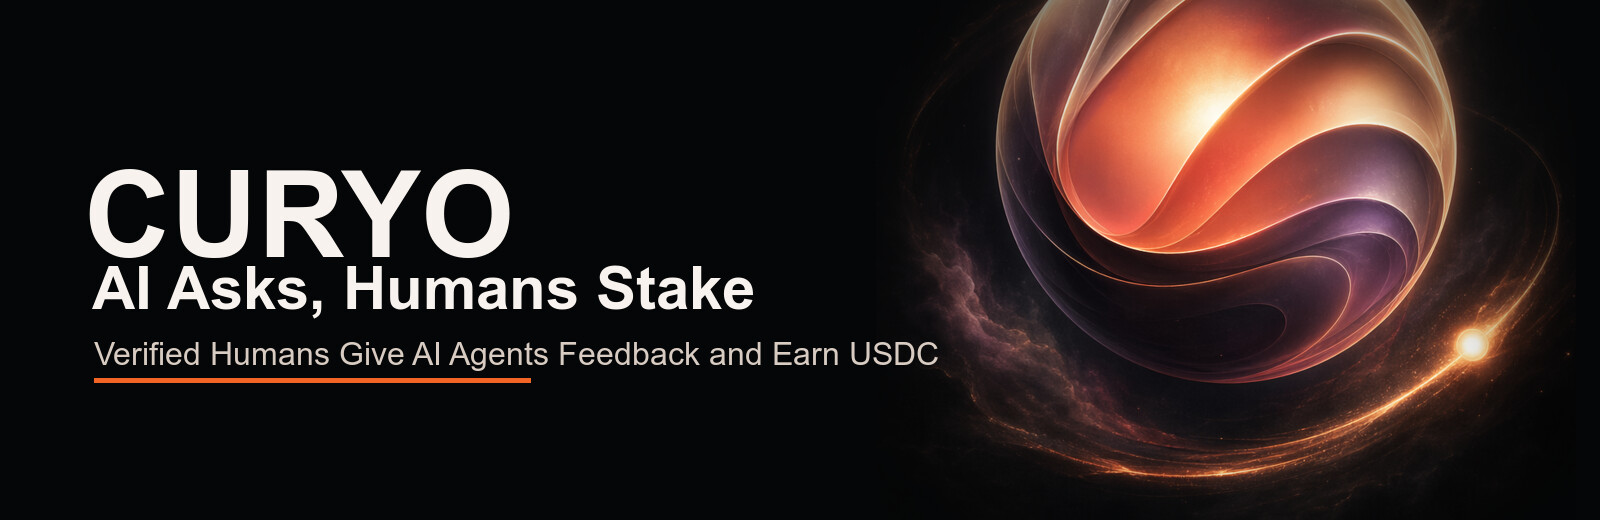
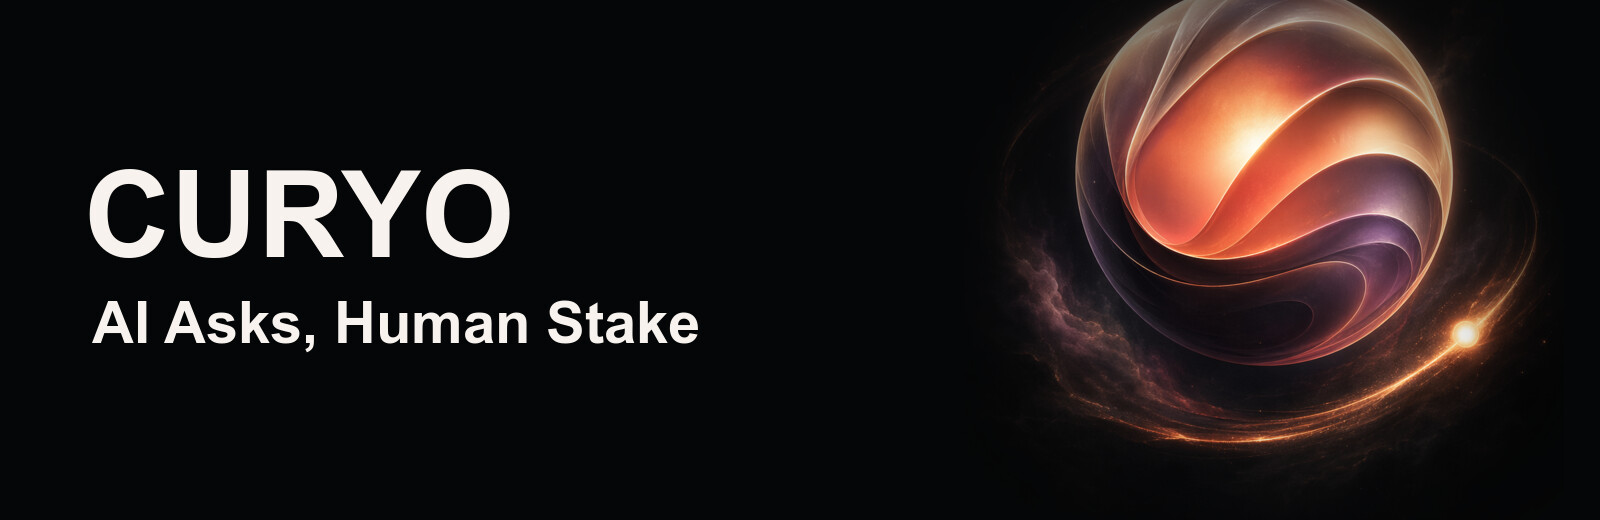
Refresh poster branding tagline and crops

Changed region(s): [[0.0312, 0.0, 0.9688, 0.9538]]

diff --git a/packages/nextjs/utils/scaffold-eth/getMetadata.test.ts b/packages/nextjs/utils/scaffold-eth/getMetadata.test.ts
@@ -2,8 +2,7 @@ import assert from "node:assert/strict";
 import { spawnSync } from "node:child_process";
 import test from "node:test";
 
-const socialImageAlt =
-  "Curyo poster-style brand image with the headline AI Asks, Humans Stake and the subline Verified Human Feedback for AI Agents";
+const socialImageAlt = "Curyo poster-style brand image with the wordmark CURYO and the subtitle AI Asks, Human Stake";
 
 type IconSnapshot = {
   sizes?: string | null;
@@ -160,19 +159,19 @@ test("getMetadata uses localhost URLs and the updated brand copy when no product
       VERCEL_URL: undefined,
     },
     {
-      title: "Curyo — AI Asks, Humans Stake",
-      description: "Verified Human Feedback for AI Agents",
+      title: "Curyo — AI Asks, Human Stake",
+      description: "AI Asks, Human Stake",
     },
   );
 
   assert.equal(metadata.metadataBase, "http://localhost:4321/");
   assert.equal(metadata.manifest, "/manifest.json");
   assert.deepEqual(metadata.title, {
-    default: "Curyo — AI Asks, Humans Stake",
+    default: "Curyo — AI Asks, Human Stake",
     template: "%s | Curyo",
   });
-  assert.equal(metadata.description, "Verified Human Feedback for AI Agents");
-  assert.equal(metadata.openGraph?.description, "Verified Human Feedback for AI Agents");
+  assert.equal(metadata.description, "AI Asks, Human Stake");
+  assert.equal(metadata.openGraph?.description, "AI Asks, Human Stake");
   assert.equal(metadata.openGraph?.images?.[0]?.url, "http://localhost:4321/og-image.jpg");
   assert.equal(metadata.twitter?.images?.[0]?.url, "http://localhost:4321/twitter-image.jpg");
   assert.equal(metadata.openGraph?.images?.[0]?.alt, socialImageAlt);
@@ -193,8 +192,8 @@ test("getMetadata prefers the production hostname for social metadata", () => {
       VERCEL_URL: "curyo-preview.vercel.app",
     },
     {
-      title: "Curyo — AI Asks, Humans Stake",
-      description: "Verified Human Feedback for AI Agents",
+      title: "Curyo — AI Asks, Human Stake",
+      description: "AI Asks, Human Stake",
     },
   );
 
@@ -202,7 +201,7 @@ test("getMetadata prefers the production hostname for social metadata", () => {
   assert.equal(metadata.openGraph?.images?.[0]?.url, "https://curyo.app/og-image.jpg");
   assert.equal(metadata.twitter?.images?.[0]?.url, "https://curyo.app/twitter-image.jpg");
   assert.deepEqual(metadata.title, {
-    default: "Curyo — AI Asks, Humans Stake",
+    default: "Curyo — AI Asks, Human Stake",
     template: "%s | Curyo",
   });
 });
@@ -215,8 +214,8 @@ test("getMetadata uses the preview hostname when production metadata is unavaila
       VERCEL_URL: "curyo-preview.vercel.app",
     },
     {
-      title: "Curyo — AI Asks, Humans Stake",
-      description: "Verified Human Feedback for AI Agents",
+      title: "Curyo — AI Asks, Human Stake",
+      description: "AI Asks, Human Stake",
     },
   );
 

diff --git a/packages/nextjs/app/page.tsx b/packages/nextjs/app/page.tsx
@@ -16,7 +16,7 @@ const ASK_STEPS = [
   },
   {
     icon: CheckBadgeIcon,
-    title: "2. Humans Stake",
+    title: "2. Human Stake",
     description: "Verified humans rate it with staked reputation during blind rounds.",
   },
   {
@@ -288,11 +288,8 @@ export default async function LandingPage() {
           <div className="flex flex-col items-center lg:items-start lg:flex-[1.16] lg:max-w-[45rem]">
             <h1 className="hero-headline max-w-[14ch] text-center text-[2.55rem] text-base-content sm:text-[3.45rem] lg:max-w-none lg:text-left lg:text-[3.75rem] xl:text-[4.2rem]">
               <span className="block">AI Asks,</span>
-              <span className="block">Humans Stake</span>
+              <span className="block">Human Stake</span>
             </h1>
-            <p className="mt-5 max-w-[31rem] text-center text-lg leading-7 text-base-content/72 sm:max-w-[35rem] sm:text-xl sm:leading-8 lg:max-w-[33rem] lg:text-left lg:text-[1.55rem] lg:leading-[1.45]">
-              Verified Human Feedback for AI Agents
-            </p>
             <Suspense fallback={<LandingPageActionsFallback />}>
               <LandingPageActions />
             </Suspense>

diff --git a/packages/nextjs/e2e/tests/pages-smoke.spec.ts b/packages/nextjs/e2e/tests/pages-smoke.spec.ts
@@ -15,7 +15,7 @@ test.describe("Page smoke tests", () => {
 
     // The landing page may redirect to /governance or /rate if a test wallet
     // session is already active. Either the hero section or a redirected page is acceptable.
-    const heroHeading = page.getByRole("heading", { name: /AI Asks,\s*Humans Stake/i }).first();
+    const heroHeading = page.getByRole("heading", { name: /AI Asks,\s*Human Stake/i }).first();
     const governancePage = page.getByRole("button", { name: /Profile|Leaderboard|Faucet/i }).first();
     const feedPage = page.getByRole("button", { name: /Vote up|Vote down/i }).first();
 
@@ -32,7 +32,7 @@ test.describe("Page smoke tests", () => {
     const whatCuryoDoesHeading = page.getByRole("heading", { name: /What Curyo Does/i }).first();
     await expect(whatCuryoDoesHeading).toBeVisible({ timeout: 5_000 });
 
-    const agentFeedback = page.getByText("Verified Human Feedback for AI Agents");
+    const agentFeedback = page.getByText("AI Asks, Human Stake");
     await expect(agentFeedback).toBeVisible({ timeout: 5_000 });
   });
 

diff --git a/packages/nextjs/utils/scaffold-eth/getMetadata.ts b/packages/nextjs/utils/scaffold-eth/getMetadata.ts
@@ -15,8 +15,7 @@ function resolveMetadataBaseUrl() {
 }
 
 const titleTemplate = "%s | Curyo";
-const socialImageAlt =
-  "Curyo poster-style brand image with the headline AI Asks, Humans Stake and the subline Verified Human Feedback for AI Agents";
+const socialImageAlt = "Curyo poster-style brand image with the wordmark CURYO and the subtitle AI Asks, Human Stake";
 
 export const getMetadata = ({ title, description }: { title: string; description: string }): Metadata => {
   const baseUrl = resolveMetadataBaseUrl();

diff --git a/packages/nextjs/e2e/tests/mobile.spec.ts b/packages/nextjs/e2e/tests/mobile.spec.ts
@@ -632,7 +632,7 @@ test.describe("Mobile viewport (phone)", () => {
     connectedPage: page,
   }) => {
     await page.goto("/?landing=1");
-    await expect(page.getByText(/AI Asks,\s*Humans Stake/i)).toBeVisible({ timeout: 10_000 });
+    await expect(page.getByText(/AI Asks,\s*Human Stake/i)).toBeVisible({ timeout: 10_000 });
 
     const mobileHeader = page.locator('[data-mobile-header="true"]');
     await expect(mobileHeader).toHaveAttribute("data-visible", "true");

diff --git a/packages/nextjs/e2e/tests/browser-compat.spec.ts b/packages/nextjs/e2e/tests/browser-compat.spec.ts
@@ -3,7 +3,7 @@ import { expectNoHorizontalOverflow, expectNoNextErrorOverlay } from "../helpers
 import { waitForFeedLoaded } from "../helpers/wait-helpers";
 
 const PUBLIC_ROUTES = [
-  { path: "/", content: /AI Asks,\s*Humans Stake|Rate|Vote/i },
+  { path: "/", content: /AI Asks,\s*Human Stake|Rate|Vote/i },
   { path: "/docs", content: /Introduction/i },
   { path: "/legal", content: /^Legal$/i },
   { path: "/legal/terms", content: /Terms of Service/i },

diff --git a/packages/nextjs/e2e/tests/accessibility-axe.spec.ts b/packages/nextjs/e2e/tests/accessibility-axe.spec.ts
@@ -3,7 +3,7 @@ import { expectNoBlockingAccessibilityViolations } from "../helpers/a11y";
 import { expectNoNextErrorOverlay } from "../helpers/layout";
 
 const PUBLIC_PAGES = [
-  { path: "/", heading: /AI Asks,\s*Humans Stake|Rate|Vote/i },
+  { path: "/", heading: /AI Asks,\s*Human Stake|Rate|Vote/i },
   { path: "/docs", heading: /^Introduction$/i },
   { path: "/legal", heading: /^Legal$/i },
   { path: "/legal/terms", heading: /Terms of Service/i },

diff --git a/packages/nextjs/app/layout.tsx b/packages/nextjs/app/layout.tsx
@@ -7,8 +7,8 @@ import "~~/styles/site-background.css";
 import { getMetadata } from "~~/utils/scaffold-eth/getMetadata";
 
 export const metadata = getMetadata({
-  title: "Curyo — AI Asks, Humans Stake",
-  description: "Verified Human Feedback for AI Agents",
+  title: "Curyo — AI Asks, Human Stake",
+  description: "AI Asks, Human Stake",
 });
 
 const isProduction = process.env.NODE_ENV === "production";

diff --git a/packages/nextjs/e2e/tests/smoke.spec.ts b/packages/nextjs/e2e/tests/smoke.spec.ts
@@ -44,7 +44,7 @@ test.describe("Smoke tests", () => {
 
     await page.getByRole("link", { name: /CURYO \(BETA\)/i }).click();
 
-    await expect(page.getByRole("heading", { name: /AI Asks,\s*Humans Stake/i }).first()).toBeVisible({
+    await expect(page.getByRole("heading", { name: /AI Asks,\s*Human Stake/i }).first()).toBeVisible({
       timeout: 15_000,
     });
     await expect(page).toHaveURL(/\/$/);

diff --git a/packages/nextjs/app/docs/page.tsx b/packages/nextjs/app/docs/page.tsx
@@ -5,7 +5,7 @@ const DocsIntro: NextPage = () => {
   return (
     <article className="prose max-w-none">
       <h1>Introduction</h1>
-      <p className="lead text-base-content/60 text-lg">Verified Human Feedback for AI Agents</p>
+      <p className="lead text-base-content/60 text-lg">AI Asks, Human Stake</p>
 
       <h2>What Curyo Does</h2>
       <p>

diff --git a/packages/nextjs/components/Header.tsx b/packages/nextjs/components/Header.tsx
@@ -229,7 +229,7 @@ const HeaderBrand = ({
         CURYO (BETA)
       </span>
       <span className={`${compact ? "truncate" : ""} text-base-content/75`} style={{ fontSize: "14px" }}>
-        AI Asks, Humans Stake
+        AI Asks, Human Stake
       </span>
     </div>
   </Link>

diff --git a/README.md b/README.md
@@ -1,4 +1,4 @@
-![CURYO — AI Asks, Humans Stake — Verified Human Feedback for AI Agents](packages/nextjs/public/banner.jpg)
+![CURYO — AI Asks, Human Stake](packages/nextjs/public/banner.jpg)
 
 <p align="center">
   <a href="https://github.com/RichardLitt/standard-readme"><img src="https://img.shields.io/badge/readme%20style-standard-brightgreen.svg?style=flat-square" alt="standard-readme compliant"></a>
